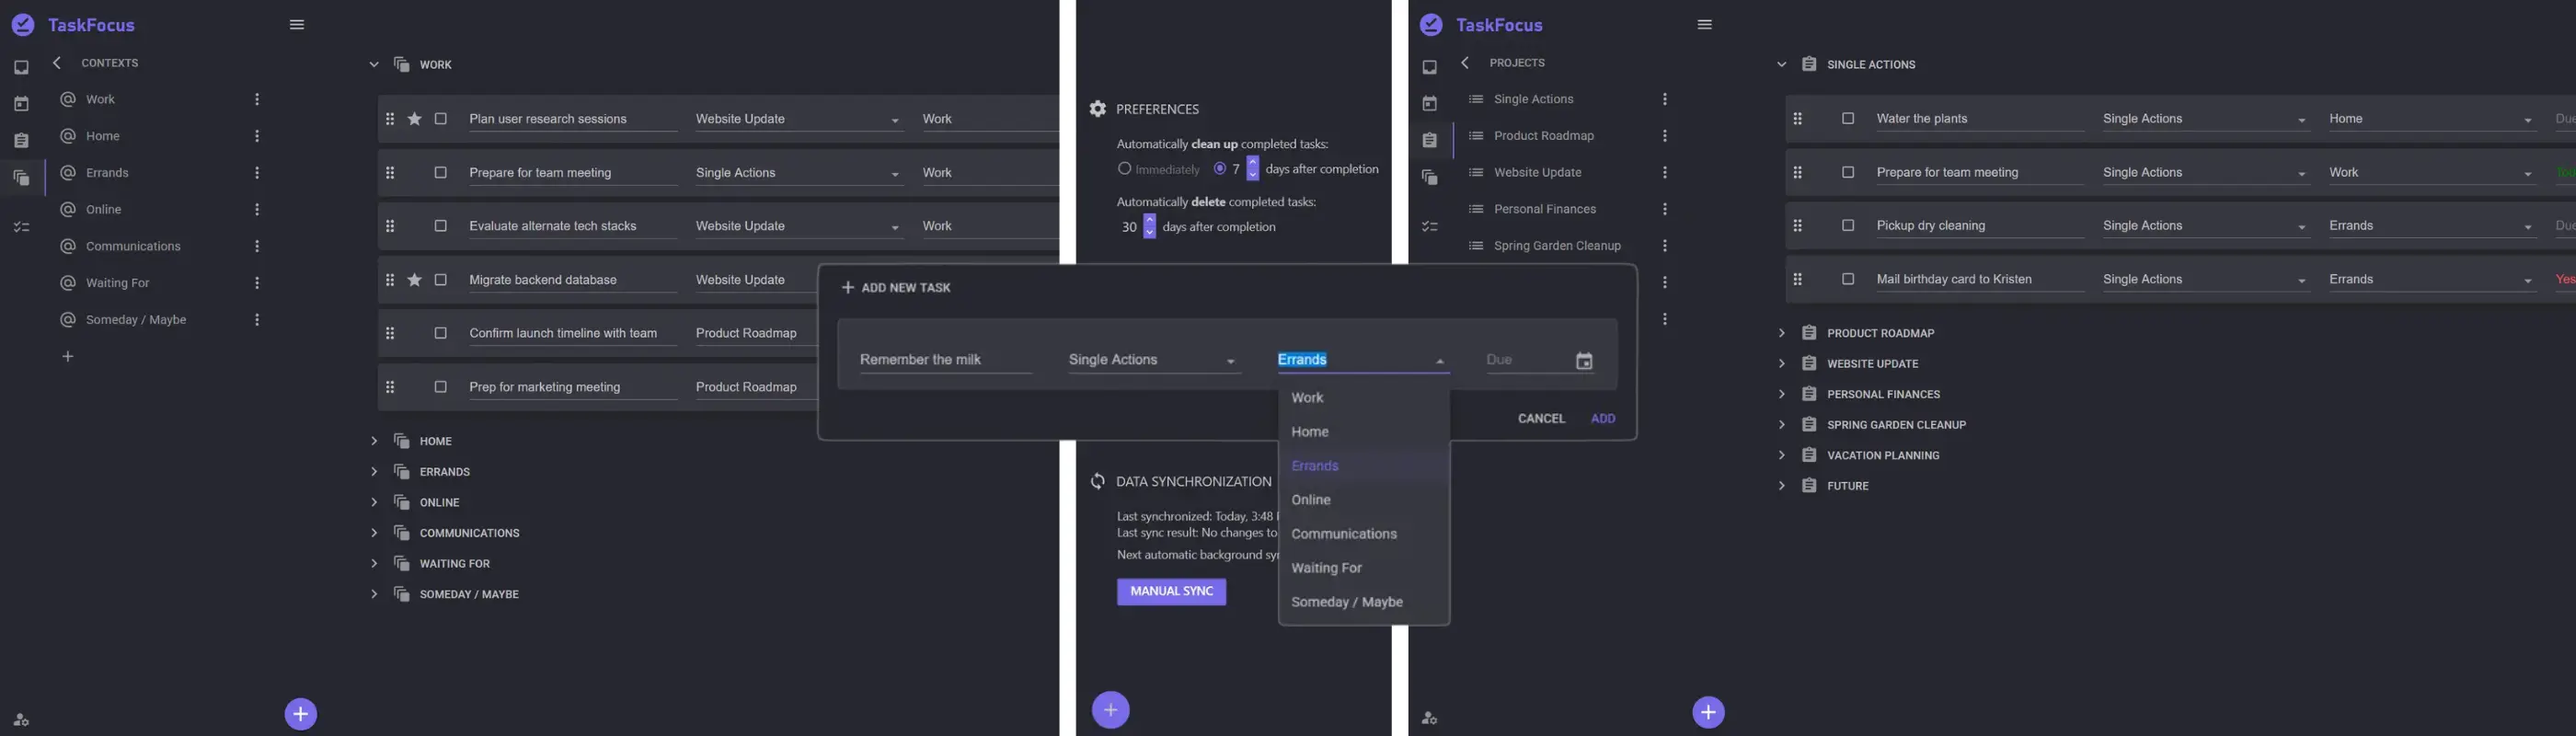
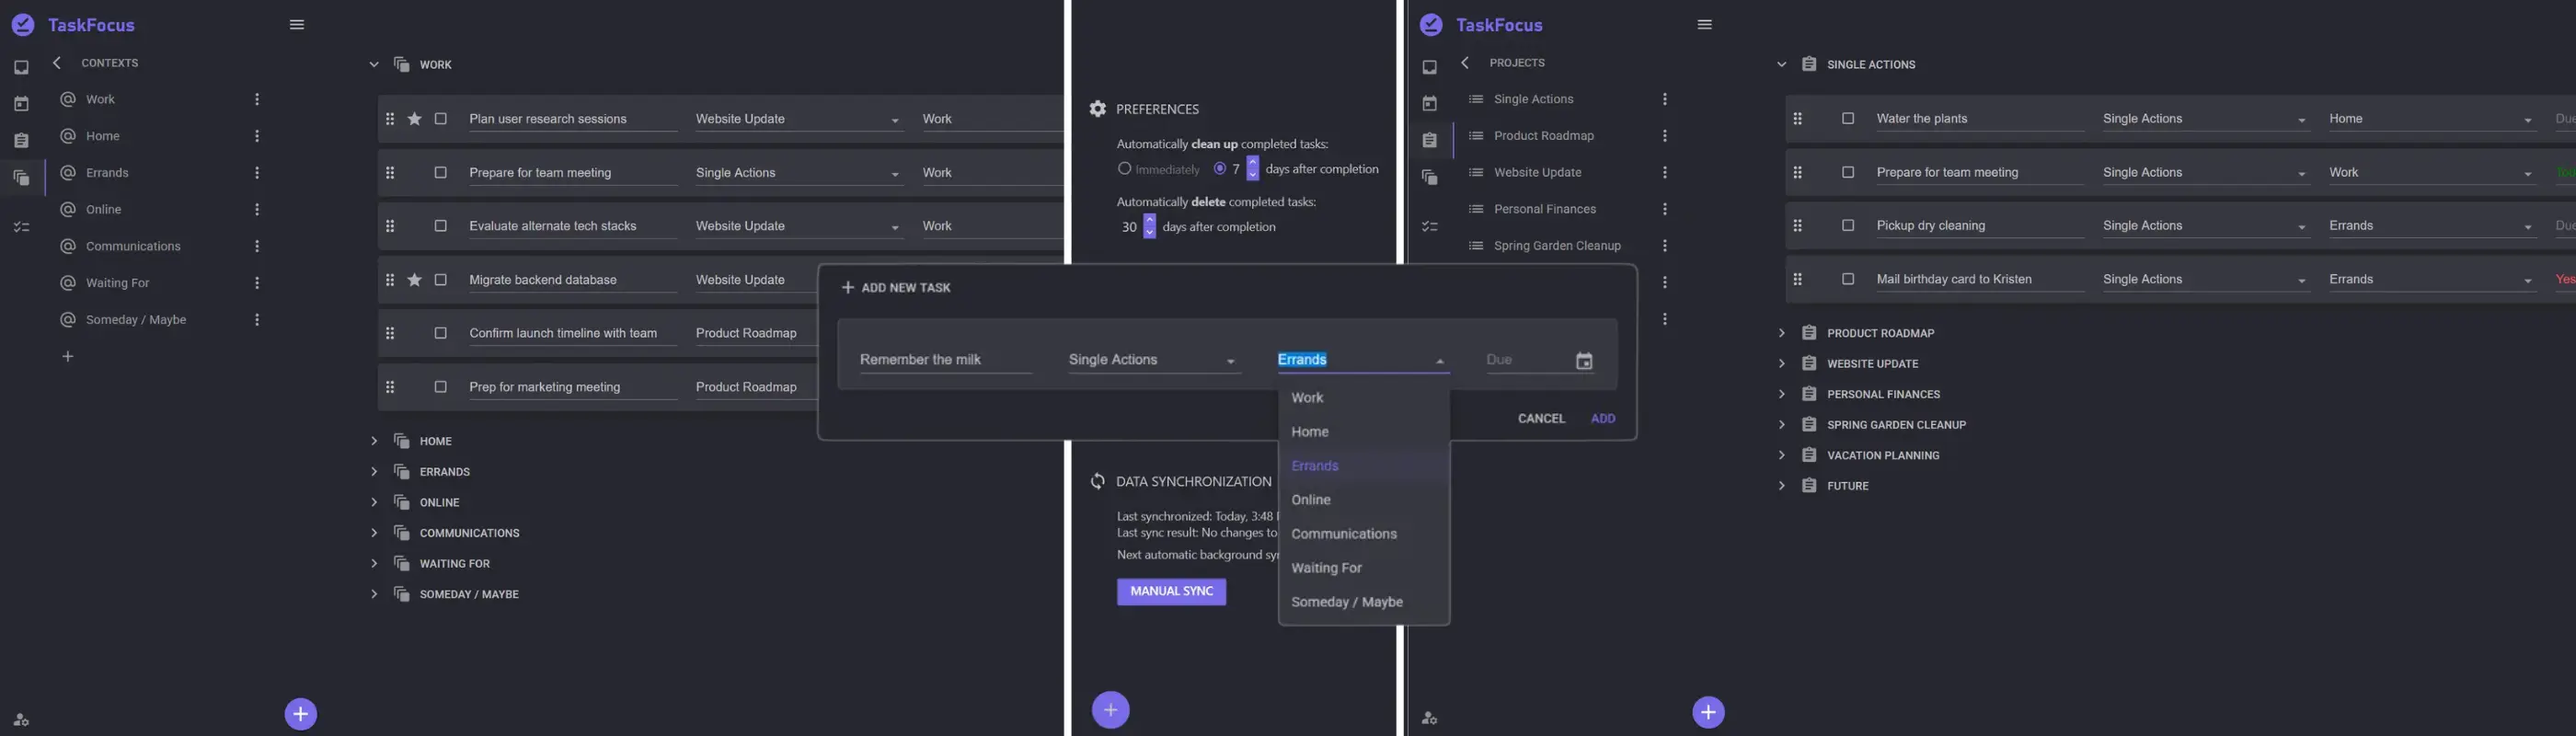
feat(ui): add PetResort hero and update thumbnails
Add PetResort hero image with dog photo centerpiece. Update TaskFocus
hero (minor separator width change) and PetResort thumbnail. Add cache
busting query strings.

Context: tasks-visual-polish.md (Task 5.8)

diff --git a/src/data/projects.ts b/src/data/projects.ts
@@ -277,7 +277,7 @@ export const projects: Project[] = [
     },
     images: {
       thumbnail: "/thumbnails/taskfocus.webp?v=2",
-      hero: "/projects/taskfocus/hero.webp",
+      hero: "/projects/taskfocus/hero.webp?v=2",
       screenshots: [
         { src: "/projects/taskfocus/screenshot-1.webp", alt: "TaskFocus Today view with prioritized tasks" },
         { src: "/projects/taskfocus/screenshot-2.webp", alt: "Task organization with Projects and Contexts" },
@@ -358,7 +358,8 @@ export const projects: Project[] = [
       },
     },
     images: {
-      thumbnail: "/thumbnails/petresort.webp",
+      thumbnail: "/thumbnails/petresort.webp?v=2",
+      hero: "/projects/petresort/hero.webp",
       screenshots: [
         { src: "/projects/petresort/screenshot-1.webp", alt: "PetResort dashboard with visit overview and metrics" },
         { src: "/projects/petresort/screenshot-2.webp", alt: "Guest and client management interfaces" },

diff --git a/.arc/active/feature/tasks-visual-polish.md b/.arc/active/feature/tasks-visual-polish.md
@@ -819,17 +819,17 @@ Heroes span full viewport; 2800px covers 4K single-density well. WebP at quality
         - Same treatment (thumbnail + hero)
         - This is software but uses the mod aesthetic
 
-- [ ] **5.8 Create missing hero images (software)**
+- [x] **5.8 Create missing hero images (software)**
 
     - [x] **5.8.a TaskFocus hero (3.5:1)**
         - Multi-panel composite showing various app views (today, inbox, settings, sync)
         - Also updated thumbnail with icon overlay (placeholder until v2 rewrite)
         - Hero: 2800×800, 49KB; Thumbnail: 2400×1350, 29KB
 
-    - [ ] **5.8.b PetResort hero (3.5:1)**
-        - Create from existing screenshots or new capture
-        - Place in `public/projects/petresort/hero.webp`
-        - Update projects.ts
+    - [x] **5.8.b PetResort hero (3.5:1)**
+        - Created multi-panel composite with dog photo center (v3 chosen over plain logo v2)
+        - Hero: 2800×800, 74KB
+        - Also updated PetResort thumbnail (2400×1350, 75KB) and TaskFocus hero (minor update)
 
 - [ ] **5.9 Create missing hero images (games)**
 
